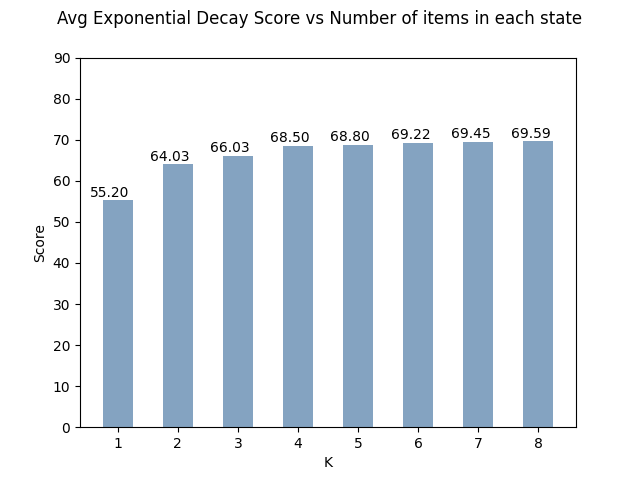
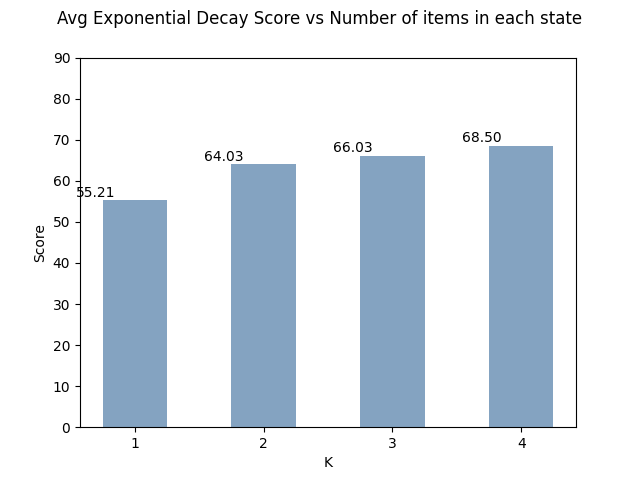
Adding Randomized Algo Code

Changed region(s): [[0.125, 0.25, 0.6875, 0.9375], [0.6875, 0.25, 0.875, 0.9375]]

diff --git a/run_benchmarks.py b/run_benchmarks.py
@@ -91,7 +91,7 @@ def graph_decay_score(model_load_path, scale=3, rand=False):
     plt.show()
 
 def graph_iteration_vs_reward(model_load_path, k=4, m=10, with_comparison=False):
-    rows = 4
+    rows = k//2
     cols = 2
 
     fig, axs = plt.subplots(rows, cols, figsize=(10, 5*rows))
@@ -113,10 +113,13 @@ def graph_iteration_vs_reward(model_load_path, k=4, m=10, with_comparison=False)
         axs[row_idx, col_idx].legend()
 
     plt.tight_layout()
-    plt.savefig('benchmarks/iteration_vs_reward_subplots_randomized_algo.png')
+    plt.savefig('benchmarks/'+model_load_path+'_iteration_vs_reward.png')
     plt.show()
 
-# graph_recommendation_score('mixture-models', scale=8)
-# graph_decay_score('mixture-models', scale=8, rand=False)
-# graph_iteration_vs_reward('mixture-models', k=8)
-graph_iteration_vs_reward('randomized-algo', k=8)
+
+k_value = 4
+
+graph_recommendation_score('mixture-models', scale=k_value)
+graph_decay_score('mixture-models', scale=k_value, rand=False)
+graph_iteration_vs_reward('mixture-models', k=k_value)
+graph_iteration_vs_reward('randomized-algo', k=k_value)

diff --git a/mdp.py b/mdp.py
@@ -166,6 +166,7 @@ class MDP:
             
             # Improve policy
             new_reward = self.update_policy()
+            new_reward = sum(self.V.values())
             self.iteration_vs_reward.append(new_reward)
 
             if self.no_change_in_policy(policy_prev):
@@ -194,7 +195,9 @@ class MDP:
             print('Iteration i - ', i+1)
             for s in self.S:
                 self.policy[s] = self.mdp_i.actions[random.randint(0, n_actions)]
-            performance = self.calc_reward()
+            self.V = self.policy_eval()
+            performance = sum(self.V.values())
+            #performance = self.calc_reward()
             self.iteration_vs_reward.append(performance)
             if performance > best_policy_performance:
                 best_policy_performance = performance

diff --git a/main.py b/main.py
@@ -1,0 +1,21 @@
+#Imports
+from mixture_model import MixtureModel
+from mdp import MDP
+from tabulate import tabulate
+
+#Constants
+PATH='dataset'
+MONTE_CARLO_MODEL_PATH='monte-carlo'
+RANDOMIZED_MODEL_PATH='saved_models/randomized-algo'
+K_LAST_PURCHASES = 4
+
+## Training Mixture Model with Monte Carlo ##
+mixture_model = MixtureModel(path='dataset', k=K_LAST_PURCHASES, verbose=True, save_path='saved_models/'+MONTE_CARLO_MODEL_PATH)
+mixture_model.generate_model(max_iteration=10000)
+
+## Training Mixture Model with Randomized Algorithm for identifying optimal policies ##
+for i in range(K_LAST_PURCHASES):
+    mm = MDP(PATH, k=i+1, save_path=RANDOMIZED_MODEL_PATH)
+    mm.initialise_mdp()
+    mm.randomized_algorithm_for_optimal_policies(N=100)
+
